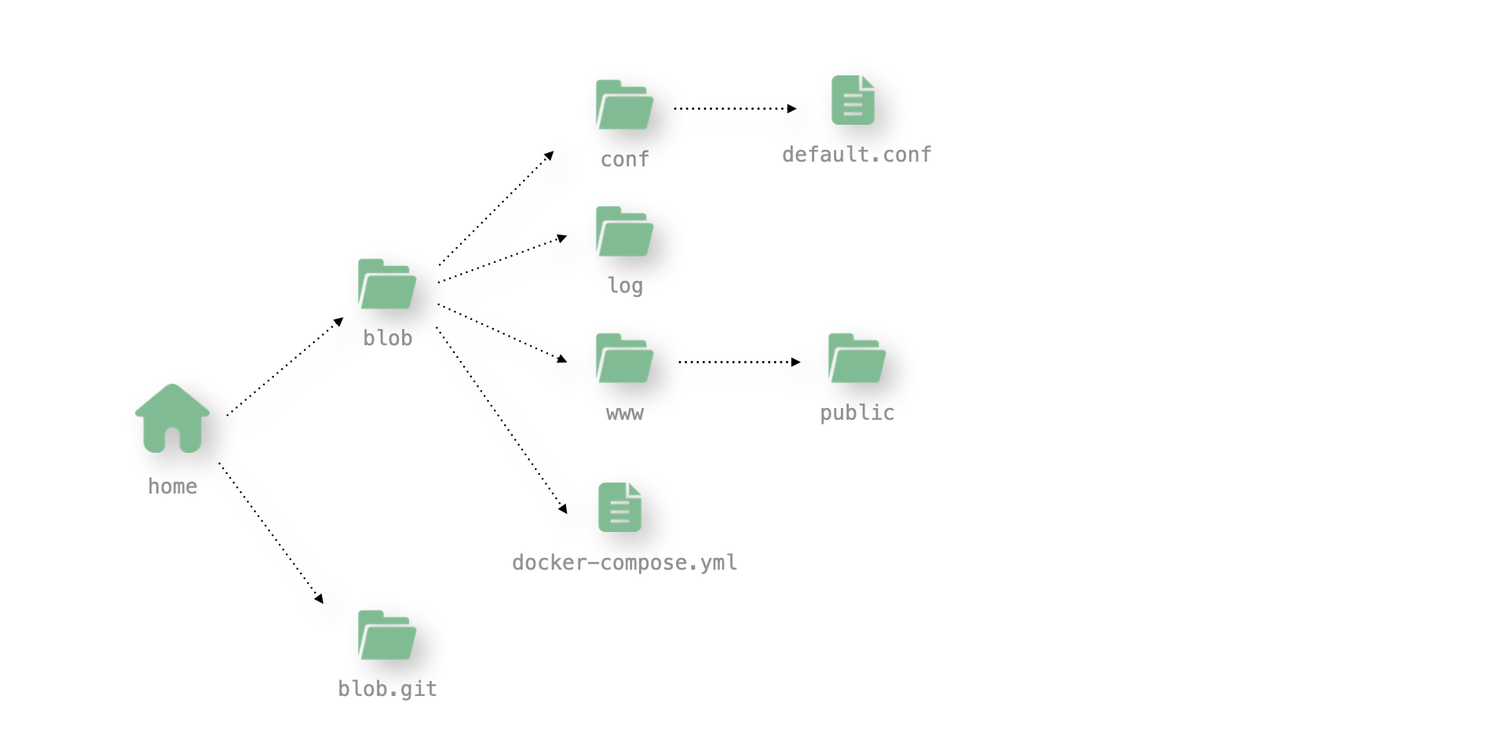
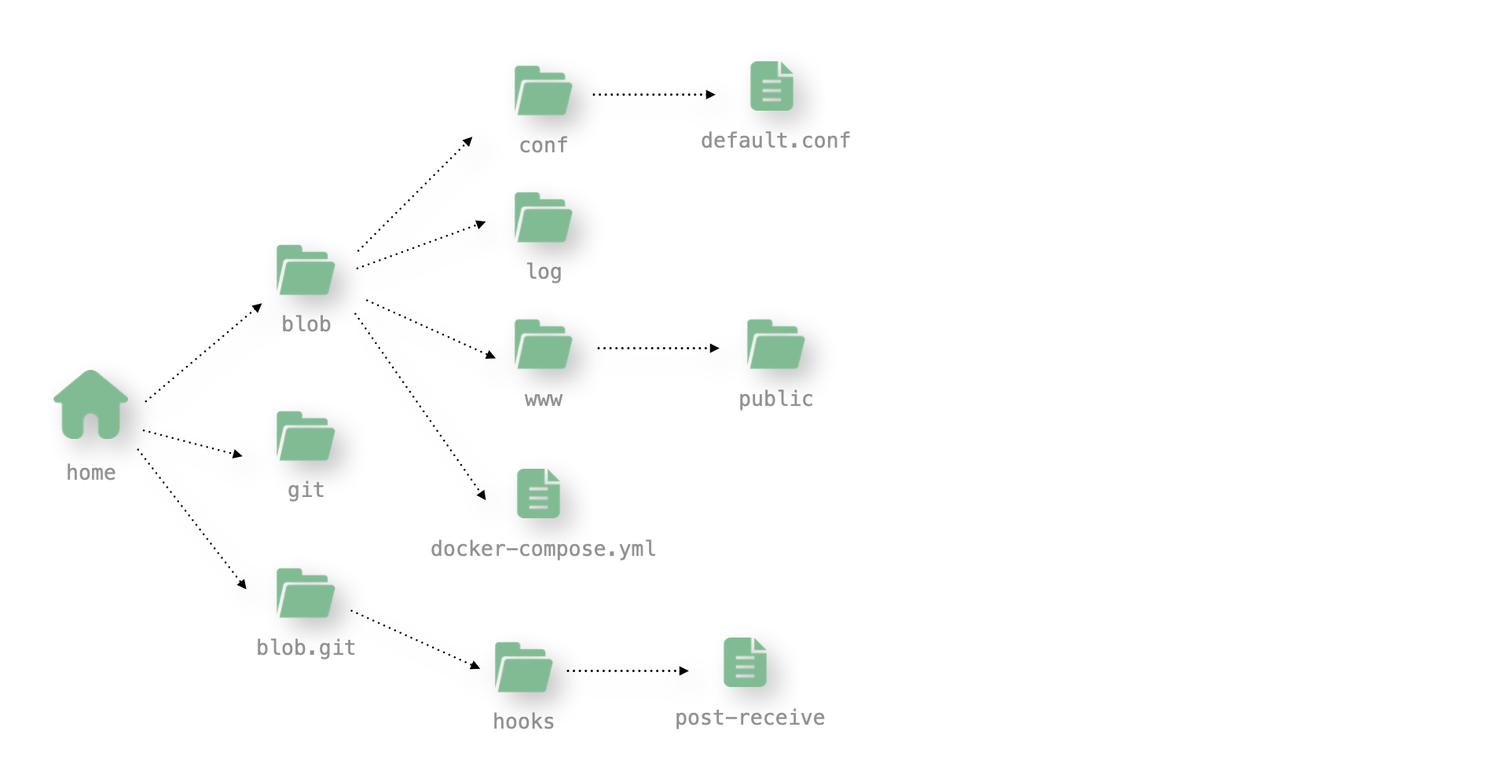
Site updated: 2020-08-12 11:42:56

diff --git a/2020/08/04/博客迁移之旅/index.html b/2020/08/04/博客迁移之旅/index.html
@@ -60,7 +60,7 @@
         <div class="stuff">
             <span>八月 04, 2020</span>
             
-  <ul class="post-tags-list"><li class="post-tags-list-item"><a class="post-tags-list-link" href="/tags/Blob/">Blob</a></li><li class="post-tags-list-item"><a class="post-tags-list-link" href="/tags/笔记/">笔记</a></li></ul>
+  <ul class="post-tags-list"><li class="post-tags-list-item"><a class="post-tags-list-link" href="/tags/服务器/">服务器</a></li><li class="post-tags-list-item"><a class="post-tags-list-link" href="/tags/笔记/">笔记</a></li><li class="post-tags-list-item"><a class="post-tags-list-link" href="/tags/部署/">部署</a></li></ul>
 
 
         </div>
@@ -68,46 +68,46 @@
             <h4 id="前言"><a href="#前言" class="headerlink" title="前言"></a>前言</h4><p>之前博客是直接托管到 <code>Github</code> 上的，由于它不是很稳定经常挂掉，而且访问速度也很慢，所以后面就干脆把它部署到自己的服务器上，顺便记录一下整个部署的流程，方便以后查看。</p>
 <h4 id="关于服务器"><a href="#关于服务器" class="headerlink" title="关于服务器"></a>关于服务器</h4><p>服务器我选的是腾讯云（主要是新用户有折扣，比较便宜，之前买过阿里云的，就不是新用户了 🤦♂），个人服务器，考虑到服务器主要是用作个人博客（静态页面），没啥并发量，对性能没有太高的要求，所以就选了一个最低配置。</p>
 <h5 id="服务器配置清单"><a href="#服务器配置清单" class="headerlink" title="服务器配置清单"></a><strong>服务器配置清单</strong></h5><img src="/2020/08/04/博客迁移之旅/server-config.jpg" title="服务器配置清单">
-<h4 id="流程"><a href="#流程" class="headerlink" title="流程"></a>流程</h4><p>整个博客的发布流程分为服务端与客户端（本地）两个部分，后面的步骤会具体描述，这里先说明一下整体的流程。</p>
+<h4 id="流程"><a href="#流程" class="headerlink" title="流程"></a>流程</h4><p>博客的整个部署流程分为服务端与客户端（本地）两个部分，具体的步骤会后面会描述，这里先说一下整体的流程。</p>
 <ol>
 <li>创建博客的远程仓库</li>
 <li>本地安装配置 hexo</li>
 <li>推送本地生成的静态页面到远程仓库</li>
 <li>服务端获取最新博客文件并部署上线<br><br></li>
 </ol>
-<p>这里可能会产生一个疑问：博客的远程仓库在哪创建？是 <code>Github</code> 还是在服务器上。为了解答这个疑问，下面先简单介绍下这两种方式：</p>
-<h5 id="远程仓库建在-Github-上"><a href="#远程仓库建在-Github-上" class="headerlink" title="远程仓库建在 Github 上"></a><strong>远程仓库建在 Github 上</strong></h5><p>当需要发布博客时，只要登录到服务器，通过 <code>git</code> 工具去仓库上拉取最新的文件，然后部署上线即可。如果需要集成自动部署功能（在本地执行完 <code>hexo deploy</code> 命令后，服务器能够自动去拉取最新静态页进行部署，不用再登录服务器手动操作），则需要使用到 <code>Github</code> 给我们提供的 <code>Webhooks</code> 勾子，来实现对仓库 <code>push</code> 事件的监听。</p>
-<h5 id="远程仓库建在服务器上"><a href="#远程仓库建在服务器上" class="headerlink" title="远程仓库建在服务器上"></a><strong>远程仓库建在服务器上</strong></h5><p>发布博客时，服务器可以直接拿到最新的静态页进行部署，如果在自动部署，可以使用 <code>git</code> 工具给我们提供的 <code>post-receive</code> 钩子，来实现对仓库 <code>push</code> 事件的监听。<br><br><br>比较一下上述的两种方式，我个人是推荐第二种，即：在服务器上创建博客的远程仓库，Why？</p>
+<p>这里可能会产生一个疑问：博客的远程仓库在哪创建？是 <code>Github</code> 还是在服务器上。为了解答这个疑问，我们先介绍下这两种方式：</p>
+<h5 id="远程仓库建在-Github-上"><a href="#远程仓库建在-Github-上" class="headerlink" title="远程仓库建在 Github 上"></a><strong>远程仓库建在 Github 上</strong></h5><p>发布博客时，只要登录到服务器，通过 <code>git</code> 工具去仓库上拉取最新的文件，然后部署上线即可。如果需要集成自动部署功能（在本地执行完 <code>hexo deploy</code> 命令后，服务器能够自动去拉取最新静态页进行部署，不用再登录服务器手动操作），则需要使用到 <code>Github</code> 给我们提供的 <code>Webhooks</code> 勾子，来实现对 <code>push</code> 事件的监听。</p>
+<h5 id="远程仓库建在服务器上"><a href="#远程仓库建在服务器上" class="headerlink" title="远程仓库建在服务器上"></a><strong>远程仓库建在服务器上</strong></h5><p>发布博客时，服务器可以直接拿到最新的静态页进行部署，如果想自动部署，则可以使用 <code>git</code> 工具给我们提供的 <code>post-receive</code> 钩子文件，来实现对 <code>push</code> 事件的监听。<br><br><br>比较一下上述的两种方式，我个人是推荐第二种，即：在服务器上创建博客的远程仓库，Why？</p>
 <p>在集成自动部署时，如果仓库建在 <code>Github</code> 上，则需要在 <code>Github</code> 中新增一个 <code>webhook</code> 钩子，并配置好回调地址，当仓库监测到 <code>push</code> 事件后，会调用这个回调地址，来通知服务器进行后续的操作。</p>
 <p>服务器端需要完成以下四件事：</p>
 <blockquote>
 <ol>
-<li>提供一个服务来给 <code>Github</code> 调用，也就是 <code>webhook</code> 上配置的的回调地址所对应的服务。</li>
+<li>提供一个服务来让 <code>Github</code> 调用，也就是 <code>webhook</code> 上配置的的回调地址所对应的服务。</li>
 <li>安装 <code>git</code> 工具，然后创建一个博客仓库与远程仓库进行关联，用来拉取远程仓库中的博客文件。</li>
 <li>当服务被调用时，需要使用 <code>git pull</code> 命令去拉取最新的博客文件。</li>
 <li>在获取到最新的博客文件后，通过 <code>nginx</code> 反向代理博客静态页（部署）。</li>
 </ol>
 </blockquote>
 <img src="/2020/08/04/博客迁移之旅/github-flow.jpg" title="流程图">
-<p> 这里涉及到服务器与 <code>Github</code> 的通信，而 <code>Github</code> 又不是很稳定，可能会有信息丢失的问题，导致博客不能被即时部署。<br> 如果是将远程仓库建在服务器上，当我们提交完最新的博客页后，服务器可以直接通过 <code>git</code> 工具的 <code>post-receive</code> 钩子文件，来监听本次的 <code>push</code> 事件，从而进行手续的操作。另外，由于这些操作都是在服务器内部完成的，不需要与外部进行通信，所以就不存在部署不及时的问题。</p>
+<p> 这里涉及到服务器与 <code>Github</code> 的通信，而 <code>Github</code> 又不是很稳定，可能存在信息丢失的风险，导致博客不能被即时部署。<br> 如果是将远程仓库建在服务器上，当我们提交完最新的博客页后，服务器就能拿到本地提交的文件，而且可以通过 <code>git</code> 工具的 <code>post-receive</code> 钩子文件，来监听本次的 <code>push</code> 事件，从而进行后续的操作。另外，由于这些操作都是在服务器内部完成的，不需要与外部进行通信，所以就不存在部署不及时的问题。</p>
 <h4 id="步骤"><a href="#步骤" class="headerlink" title="步骤"></a>步骤</h4><p>我采用的是第二种方式（在服务器搭建远程仓库），后续也是基于这种方式来进行介绍。</p>
 <img src="/2020/08/04/博客迁移之旅/server-flow.jpg" title="流程图">
 <p>具体拆解下来，分为服务器端与本地客户端两个部分的操作。</p>
 <h5 id="服务器"><a href="#服务器" class="headerlink" title="服务器"></a><strong>服务器</strong></h5><blockquote>
-<p>注：以下的操作都是在 <code>root</code> 权限下进行的。</p>
+<p>注：服务器上的操作都是在 <code>root</code> 权限下进行的。</p>
 </blockquote>
 <ol>
 <li>安装并配置 Docker</li>
 </ol>
-<p>博客是通过 <code>Docker</code> 容器来部署的，所以需要在服务器上下载安装 <code>Docker</code>。也可以不用 <code>Docker</code>，直接通过 <code>nginx</code> 来部署。这里主要是为了以后迁移方便（如果以后需要更换服务器，只需要将 <code>Docker</code> 脚本以及相关的配置文件打包走即可，不用再重新配置 <code>nginx</code> ），同时自己也想熟悉一下 <code>Docker</code> 的相关用法。<br><figure class="highlight bash"><table><tr><td class="gutter"><pre><span class="line">1</span><br><span class="line">2</span><br><span class="line">3</span><br><span class="line">4</span><br><span class="line">5</span><br><span class="line">6</span><br><span class="line">7</span><br><span class="line">8</span><br></pre></td><td class="code"><pre><span class="line"><span class="comment"># 安装 docker，因为我的服务器预装了 CentOS 系统，所以可以直接使用 yum 命令</span></span><br><span class="line">yum install docker -y</span><br><span class="line"></span><br><span class="line"><span class="comment"># 启动 docker</span></span><br><span class="line">service docker start</span><br><span class="line"></span><br><span class="line"><span class="comment"># 配置开机启动</span></span><br><span class="line">chkconfig docker on</span><br></pre></td></tr></table></figure></p>
-<p>国内访问 <code>Docker Hub</code> 较慢，可以使用腾讯云提供的国内镜像源，加速访问 <code>Docker Hub</code>。<br><figure class="highlight bash"><table><tr><td class="gutter"><pre><span class="line">1</span><br><span class="line">2</span><br><span class="line">3</span><br><span class="line">4</span><br><span class="line">5</span><br><span class="line">6</span><br><span class="line">7</span><br><span class="line">8</span><br><span class="line">9</span><br><span class="line">10</span><br><span class="line">11</span><br><span class="line">12</span><br><span class="line">13</span><br><span class="line">14</span><br><span class="line">15</span><br></pre></td><td class="code"><pre><span class="line"><span class="comment"># 1. 创建 docker 配置文件目录</span></span><br><span class="line">mkdir /etc/docker</span><br><span class="line"></span><br><span class="line"><span class="comment"># 2. 添加新的镜像源</span></span><br><span class="line">cat &gt;&gt; /etc/docker/daemon.json &lt;&lt;-<span class="string">'EOF'</span></span><br><span class="line">&#123;</span><br><span class="line">  <span class="string">"registry-mirrors"</span>: [<span class="string">"https://mirror.ccs.tencentyun.com"</span>]</span><br><span class="line">&#125;</span><br><span class="line">EOF</span><br><span class="line"></span><br><span class="line"><span class="comment"># 3. 加载配置文件</span></span><br><span class="line">systemctl daemon-reload</span><br><span class="line"></span><br><span class="line"><span class="comment"># 4. 重启 docker</span></span><br><span class="line">service docker restart</span><br></pre></td></tr></table></figure></p>
+<p>博客是通过 <code>Docker</code> 容器来部署的，所以需要在服务器上下载安装 <code>Docker</code>。也可以不用 <code>Docker</code>，直接使用 <code>nginx</code> 来部署。这里主要是为了以后迁移方便（如果以后需要更换服务器，只需要将 <code>Docker</code> 脚本以及相关的配置文件打包走即可，不用再重新配置 <code>nginx</code> ），同时自己也想熟悉一下 <code>Docker</code> 的相关用法。<br><figure class="highlight bash"><table><tr><td class="gutter"><pre><span class="line">1</span><br><span class="line">2</span><br><span class="line">3</span><br><span class="line">4</span><br><span class="line">5</span><br><span class="line">6</span><br><span class="line">7</span><br><span class="line">8</span><br></pre></td><td class="code"><pre><span class="line"><span class="comment"># 安装 docker，因为我的服务器预装了 CentOS 系统，所以可以直接使用 yum 命令</span></span><br><span class="line">yum install docker -y</span><br><span class="line"></span><br><span class="line"><span class="comment"># 启动 docker</span></span><br><span class="line">service docker start</span><br><span class="line"></span><br><span class="line"><span class="comment"># 配置开机启动</span></span><br><span class="line">chkconfig docker on</span><br></pre></td></tr></table></figure></p>
+<p>国内访问 <code>Docker Hub</code> 较慢，可以添加国内的镜像源来加速访问 <code>Docker Hub</code>，我这里使用的是腾讯云提供的镜像源。<br><figure class="highlight bash"><table><tr><td class="gutter"><pre><span class="line">1</span><br><span class="line">2</span><br><span class="line">3</span><br><span class="line">4</span><br><span class="line">5</span><br><span class="line">6</span><br><span class="line">7</span><br><span class="line">8</span><br><span class="line">9</span><br><span class="line">10</span><br><span class="line">11</span><br><span class="line">12</span><br><span class="line">13</span><br><span class="line">14</span><br><span class="line">15</span><br></pre></td><td class="code"><pre><span class="line"><span class="comment"># 1. 创建 docker 配置文件目录</span></span><br><span class="line">mkdir /etc/docker</span><br><span class="line"></span><br><span class="line"><span class="comment"># 2. 添加新的镜像源</span></span><br><span class="line">cat &gt;&gt; /etc/docker/daemon.json &lt;&lt;EOF</span><br><span class="line">&#123;</span><br><span class="line">  <span class="string">"registry-mirrors"</span>: [<span class="string">"https://mirror.ccs.tencentyun.com"</span>]</span><br><span class="line">&#125;</span><br><span class="line">EOF</span><br><span class="line"></span><br><span class="line"><span class="comment"># 3. 加载配置文件</span></span><br><span class="line">systemctl daemon-reload</span><br><span class="line"></span><br><span class="line"><span class="comment"># 4. 重启 docker</span></span><br><span class="line">service docker restart</span><br></pre></td></tr></table></figure></p>
 <p>配置好 <code>Docker</code> 的镜像源后，我们就可以通过 <code>Docker</code> 来拉取 <code>nginx</code> 镜像。<br><figure class="highlight bash"><table><tr><td class="gutter"><pre><span class="line">1</span><br><span class="line">2</span><br></pre></td><td class="code"><pre><span class="line"><span class="comment"># 拉取 nginx 镜像</span></span><br><span class="line">docker pull nginx</span><br></pre></td></tr></table></figure></p>
 <p>安装 <code>docker-compose</code> 。</p>
 <blockquote>
 <p>注：<code>docker-compose</code> 在这里不是必需的，它是用来解决多个容器编排的一种方案。因为这里只用到了 <code>nginx</code> 镜像，完全可以用一个 <code>Dockerfile</code> 文件来进行定制。</p>
 </blockquote>
 <figure class="highlight bash"><table><tr><td class="gutter"><pre><span class="line">1</span><br><span class="line">2</span><br></pre></td><td class="code"><pre><span class="line"><span class="comment"># 下载安装 docker-compose</span></span><br><span class="line">yum install docker-compose -y</span><br></pre></td></tr></table></figure>
-<p>接下来需要修改一下 nginx` 相关的配置。<br><figure class="highlight bash"><table><tr><td class="gutter"><pre><span class="line">1</span><br><span class="line">2</span><br><span class="line">3</span><br><span class="line">4</span><br><span class="line">5</span><br><span class="line">6</span><br><span class="line">7</span><br><span class="line">8</span><br><span class="line">9</span><br><span class="line">10</span><br><span class="line">11</span><br><span class="line">12</span><br><span class="line">13</span><br><span class="line">14</span><br><span class="line">15</span><br><span class="line">16</span><br><span class="line">17</span><br><span class="line">18</span><br><span class="line">19</span><br><span class="line">20</span><br><span class="line">21</span><br><span class="line">22</span><br><span class="line">23</span><br><span class="line">24</span><br><span class="line">25</span><br><span class="line">26</span><br><span class="line">27</span><br><span class="line">28</span><br><span class="line">29</span><br><span class="line">30</span><br><span class="line">31</span><br><span class="line">32</span><br><span class="line">33</span><br><span class="line">34</span><br><span class="line">35</span><br><span class="line">36</span><br><span class="line">37</span><br><span class="line">38</span><br><span class="line">39</span><br><span class="line">40</span><br><span class="line">41</span><br><span class="line">42</span><br><span class="line">43</span><br><span class="line">44</span><br><span class="line">45</span><br><span class="line">46</span><br><span class="line">47</span><br><span class="line">48</span><br><span class="line">49</span><br><span class="line">50</span><br><span class="line">51</span><br><span class="line">52</span><br><span class="line">53</span><br><span class="line">54</span><br><span class="line">55</span><br><span class="line">56</span><br><span class="line">57</span><br></pre></td><td class="code"><pre><span class="line"><span class="comment"># 1. 在 /home 目录底下新建一个 blob 目录，并进入到该目录底下。</span></span><br><span class="line"><span class="comment">#    这个目录就是博客的部署目录，里面存放着博客的静态文件以及与 nginx 相关的配置文件。 </span></span><br><span class="line"><span class="built_in">cd</span> /home &amp;&amp; mkdir blob &amp;&amp; <span class="built_in">cd</span> blob</span><br><span class="line"></span><br><span class="line"><span class="comment"># 2. 创建 docker-compose.yml 文件</span></span><br><span class="line">vim docker-compose.yml</span><br><span class="line"></span><br><span class="line"><span class="comment"># 3. 在 docker-compose.yml 文件中输入以下内容</span></span><br><span class="line">version: <span class="string">'3'</span></span><br><span class="line">services:</span><br><span class="line">  nginx:</span><br><span class="line">    restart: <span class="string">'always'</span></span><br><span class="line">    image: <span class="string">'nginx'</span></span><br><span class="line">    ports:</span><br><span class="line">      - <span class="string">'80:80'</span></span><br><span class="line">      - <span class="string">'443:443'</span></span><br><span class="line">    volumes: </span><br><span class="line">      <span class="comment"># a. volumes 将物理主机目录挂载到容器中</span></span><br><span class="line">      <span class="comment"># b. 以 : 为分隔符，前半部分为服务器目录，后半部分是容器中的目录</span></span><br><span class="line">      <span class="comment"># c. 挂载建立的是双向关联，类似于软连接</span></span><br><span class="line">      <span class="comment"># d. 当修改了服务器中的文件，则容器中所关联的文件也会同步更新，无需重新构建</span></span><br><span class="line">      <span class="comment">#</span></span><br><span class="line">      <span class="comment"># /home/blob/www/public 为服务器目录，里面存放的是博客的静态文件</span></span><br><span class="line">      <span class="comment"># 将它挂载到容器内的 /usr/share/nginx/html 目录中，将来服务器中的博客文件更新后，容器内会同步更新  </span></span><br><span class="line">      - <span class="string">'/home/blob/www/public:/usr/share/nginx/html'</span></span><br><span class="line">      <span class="comment"># 挂载 nginx 的日志文件</span></span><br><span class="line">      - <span class="string">'/home/blob/log:/var/log/nginx'</span></span><br><span class="line">      <span class="comment"># 挂载 nginx 的配置文件</span></span><br><span class="line">      - <span class="string">'/home/blob/conf:/etc/nginx/conf.d'</span></span><br><span class="line"></span><br><span class="line"><span class="comment"># 4. 创建 nginx 相关的配置文件</span></span><br><span class="line"><span class="comment">#    在 conf 目录底下创建一个 default.conf 文件，此文件将来会被挂载到 nginx 容器中并作为它的配置文件</span></span><br><span class="line"><span class="built_in">cd</span> /home/blob/conf &amp;&amp; vim default.conf</span><br><span class="line"></span><br><span class="line"><span class="comment"># 5. 在 default.conf 文件中输入以下内容</span></span><br><span class="line">server &#123;</span><br><span class="line">  listen    80;</span><br><span class="line">  server_name localhost;</span><br><span class="line"></span><br><span class="line">  root    /usr/share/nginx/html;</span><br><span class="line">  location / &#123;</span><br><span class="line">    root  /usr/share/nginx/html;</span><br><span class="line">    index index.html index.htm;</span><br><span class="line">  &#125;</span><br><span class="line"></span><br><span class="line">  autoindex on;</span><br><span class="line">  autoindex_exact_size  on;</span><br><span class="line">  autoindex_localtime on;</span><br><span class="line"></span><br><span class="line">  error_page  500 502 503 504   /50x.html;</span><br><span class="line">  location = /50x.html &#123;</span><br><span class="line">    root  /usr/share/nginx/html;</span><br><span class="line">  &#125;</span><br><span class="line">&#125;</span><br><span class="line"></span><br><span class="line"><span class="comment"># 6. 启动容器</span></span><br><span class="line"><span class="built_in">cd</span> /home/blob &amp;&amp; docker-compose up -d</span><br></pre></td></tr></table></figure></p>
+<p>接下来需要修改一下 <code>nginx</code> 相关的配置。<br><figure class="highlight bash"><table><tr><td class="gutter"><pre><span class="line">1</span><br><span class="line">2</span><br><span class="line">3</span><br><span class="line">4</span><br><span class="line">5</span><br><span class="line">6</span><br><span class="line">7</span><br><span class="line">8</span><br><span class="line">9</span><br><span class="line">10</span><br><span class="line">11</span><br><span class="line">12</span><br><span class="line">13</span><br><span class="line">14</span><br><span class="line">15</span><br><span class="line">16</span><br><span class="line">17</span><br><span class="line">18</span><br><span class="line">19</span><br><span class="line">20</span><br><span class="line">21</span><br><span class="line">22</span><br><span class="line">23</span><br><span class="line">24</span><br><span class="line">25</span><br><span class="line">26</span><br><span class="line">27</span><br><span class="line">28</span><br><span class="line">29</span><br><span class="line">30</span><br><span class="line">31</span><br><span class="line">32</span><br><span class="line">33</span><br><span class="line">34</span><br><span class="line">35</span><br><span class="line">36</span><br><span class="line">37</span><br><span class="line">38</span><br><span class="line">39</span><br><span class="line">40</span><br><span class="line">41</span><br><span class="line">42</span><br><span class="line">43</span><br><span class="line">44</span><br><span class="line">45</span><br><span class="line">46</span><br><span class="line">47</span><br><span class="line">48</span><br><span class="line">49</span><br><span class="line">50</span><br><span class="line">51</span><br><span class="line">52</span><br><span class="line">53</span><br><span class="line">54</span><br><span class="line">55</span><br><span class="line">56</span><br><span class="line">57</span><br></pre></td><td class="code"><pre><span class="line"><span class="comment"># 1. 在 /home 目录底下新建一个 blob 目录，并进入到该目录底下。</span></span><br><span class="line"><span class="comment">#    这个目录就是博客的部署目录，里面存放着博客的静态文件以及与 nginx 相关的配置文件。 </span></span><br><span class="line"><span class="built_in">cd</span> /home &amp;&amp; mkdir blob &amp;&amp; <span class="built_in">cd</span> blob</span><br><span class="line"></span><br><span class="line"><span class="comment"># 2. 创建 docker-compose.yml 文件</span></span><br><span class="line">vim docker-compose.yml</span><br><span class="line"></span><br><span class="line"><span class="comment"># 3. 在 docker-compose.yml 文件中输入以下内容</span></span><br><span class="line">version: <span class="string">'3'</span></span><br><span class="line">services:</span><br><span class="line">  nginx:</span><br><span class="line">    restart: <span class="string">'always'</span></span><br><span class="line">    image: <span class="string">'nginx'</span></span><br><span class="line">    ports:</span><br><span class="line">      - <span class="string">'80:80'</span></span><br><span class="line">      - <span class="string">'443:443'</span></span><br><span class="line">    volumes: </span><br><span class="line">      <span class="comment"># a. volumes 将物理主机目录挂载到容器中</span></span><br><span class="line">      <span class="comment"># b. 以 : 为分隔符，前半部分为服务器目录，后半部分是容器中的目录</span></span><br><span class="line">      <span class="comment"># c. 挂载建立的是双向关联，类似于软连接</span></span><br><span class="line">      <span class="comment"># d. 当修改了服务器中的文件，则容器中所关联的文件也会同步更新，无需重新构建</span></span><br><span class="line">      <span class="comment">#</span></span><br><span class="line">      <span class="comment"># /home/blob/www/public 为服务器目录，里面存放的是博客的静态文件</span></span><br><span class="line">      <span class="comment"># 将它挂载到容器内的 /usr/share/nginx/html 目录中，将来服务器中的博客文件更新后，容器内会同步更新  </span></span><br><span class="line">      - <span class="string">'/home/blob/www/public:/usr/share/nginx/html'</span></span><br><span class="line">      <span class="comment"># 挂载 nginx 的日志文件</span></span><br><span class="line">      - <span class="string">'/home/blob/log:/var/log/nginx'</span></span><br><span class="line">      <span class="comment"># 挂载 nginx 的配置文件</span></span><br><span class="line">      - <span class="string">'/home/blob/conf:/etc/nginx/conf.d'</span></span><br><span class="line"></span><br><span class="line"><span class="comment"># 4. 创建 nginx 相关的配置文件</span></span><br><span class="line"><span class="comment">#    在 conf 目录底下创建一个 default.conf 文件，此文件将来会被挂载到 nginx 容器中并作为它的配置文件</span></span><br><span class="line"><span class="built_in">cd</span> /home/blob/conf &amp;&amp; vim default.conf</span><br><span class="line"></span><br><span class="line"><span class="comment"># 5. 在 default.conf 文件中输入以下内容</span></span><br><span class="line">server &#123;</span><br><span class="line">  listen    80;</span><br><span class="line">  server_name localhost;</span><br><span class="line"></span><br><span class="line">  root    /usr/share/nginx/html;</span><br><span class="line">  location / &#123;</span><br><span class="line">    root  /usr/share/nginx/html;</span><br><span class="line">    index index.html index.htm;</span><br><span class="line">  &#125;</span><br><span class="line"></span><br><span class="line">  autoindex on;</span><br><span class="line">  autoindex_exact_size  on;</span><br><span class="line">  autoindex_localtime on;</span><br><span class="line"></span><br><span class="line">  error_page  500 502 503 504   /50x.html;</span><br><span class="line">  location = /50x.html &#123;</span><br><span class="line">    root  /usr/share/nginx/html;</span><br><span class="line">  &#125;</span><br><span class="line">&#125;</span><br><span class="line"></span><br><span class="line"><span class="comment"># 6. 启动容器</span></span><br><span class="line"><span class="built_in">cd</span> /home/blob &amp;&amp; docker-compose up -d</span><br></pre></td></tr></table></figure></p>
 <p>至此，所有与 <code>nginx</code> 相关的步骤都已经完成，接下来就是 <code>git</code> 相关的配置了。</p>
 <ol start="2">
 <li>安装并配置 Git</li>
@@ -115,23 +115,50 @@
 <p>因为博客的远程仓库是在服务器上创建的，所以需要在服务器上安装 <code>git</code> 工具。<br><figure class="highlight bash"><table><tr><td class="gutter"><pre><span class="line">1</span><br><span class="line">2</span><br></pre></td><td class="code"><pre><span class="line"><span class="comment"># 下载安装 git </span></span><br><span class="line">yum install git -y</span><br></pre></td></tr></table></figure></p>
 <p>安装完 <code>git</code> 后，在 <code>/home</code> 目录底下创建一个 <code>blob.git</code> 的仓库，该仓库就是博客的远程仓库。</p>
 <blockquote>
-<p>注：博客的远程仓库以及上文中提到的博客的部署目录，并不一定要在 <code>/home</code> 目录下创建，可以根据自己的需要在服务器上选择一个已存在的目录。</p>
+<p>注：博客的远程仓库以及上文中提到的博客的部署目录，并不一定要在 <code>/home</code> 目录下创建，可以根据自己的需要在服务器上选择一个合适的目录即可。</p>
 </blockquote>
-<figure class="highlight bash"><table><tr><td class="gutter"><pre><span class="line">1</span><br><span class="line">2</span><br><span class="line">3</span><br><span class="line">4</span><br><span class="line">5</span><br></pre></td><td class="code"><pre><span class="line"><span class="comment"># 创建博客的远程仓库</span></span><br><span class="line"><span class="comment">#</span></span><br><span class="line"><span class="comment"># --bare：表示创建一个裸的仓库，没有工作区（没有 .git 目录）</span></span><br><span class="line"><span class="comment"># 远程仓库只负责接收本地推送过来的数据，不允许直接在该仓库底下进行 git 操作</span></span><br><span class="line"><span class="built_in">cd</span> /home &amp;&amp; git init --bare blog.git</span><br></pre></td></tr></table></figure>
+<figure class="highlight bash"><table><tr><td class="gutter"><pre><span class="line">1</span><br><span class="line">2</span><br><span class="line">3</span><br><span class="line">4</span><br><span class="line">5</span><br></pre></td><td class="code"><pre><span class="line"><span class="comment"># 创建博客的远程仓库</span></span><br><span class="line"><span class="comment">#</span></span><br><span class="line"><span class="comment"># --bare：表示创建一个裸的仓库，没有工作区（没有 .git 目录）</span></span><br><span class="line"><span class="comment"># 远程仓库是用作共享的版本库，只保存 git 提交的版本信息，本身不存储推送过来的源文件，也不允许直接在该仓库底下进行 git 操作  </span></span><br><span class="line"><span class="built_in">cd</span> /home &amp;&amp; git init --bare blog.git</span><br></pre></td></tr></table></figure>
 <p>创建 <code>post-receive</code> 钩子文件。</p>
 <blockquote>
-<p>注：<code>post-receive</code> 是 <code>git</code> 在收到 <code>push</code> 事件以后执行的一个脚本文件，通过它可以实现对 <code>push</code> 事件的监听，从而达到自动部署的功能。<br>参考：<strong><em><u><a href="https://git-scm.com/book/zh/v2/自定义-Git-Git-钩子" target="_blank" rel="noopener">自定义-Git-Git-钩子</a></u></em></strong></p>
+<p>注：<code>post-receive</code> 是 <code>git</code> 在收到 <code>push</code> 事件以后执行的一个脚本文件，通过它可以实现对 <code>push</code> 事件的监听，从而达到自动部署的目的。<br>参考：<strong><em><u><a href="https://git-scm.com/book/zh/v2/自定义-Git-Git-钩子" target="_blank" rel="noopener">自定义-Git-Git-钩子</a></u></em></strong></p>
 </blockquote>
-<figure class="highlight bash"><table><tr><td class="gutter"><pre><span class="line">1</span><br><span class="line">2</span><br><span class="line">3</span><br><span class="line">4</span><br><span class="line">5</span><br><span class="line">6</span><br><span class="line">7</span><br><span class="line">8</span><br><span class="line">9</span><br><span class="line">10</span><br><span class="line">11</span><br><span class="line">12</span><br></pre></td><td class="code"><pre><span class="line"><span class="comment"># 1. 进入到 blob.git 仓库中的 hooks 目录下，所有的钩子文件都在这个目录下</span></span><br><span class="line"><span class="built_in">cd</span> blog.git/hooks</span><br><span class="line"></span><br><span class="line"><span class="comment"># 2. 创建 post-receive 文件</span></span><br><span class="line">vim post-receive</span><br><span class="line"></span><br><span class="line"><span class="comment"># 3. 在 post-receive 文件中输入以下内容</span></span><br><span class="line"><span class="comment">#    该命令会将</span></span><br><span class="line"><span class="comment">#</span></span><br><span class="line"><span class="comment">#   --work-tree </span></span><br><span class="line"><span class="comment">#   --git-dir</span></span><br><span class="line">git --work-tree=/home/blob/www/public --git-dir=/home/blob.git checkout -f</span><br></pre></td></tr></table></figure>
-<p>AAA<br>BBB<br>CCC</p>
+<figure class="highlight bash"><table><tr><td class="gutter"><pre><span class="line">1</span><br><span class="line">2</span><br><span class="line">3</span><br><span class="line">4</span><br><span class="line">5</span><br><span class="line">6</span><br><span class="line">7</span><br><span class="line">8</span><br><span class="line">9</span><br><span class="line">10</span><br><span class="line">11</span><br><span class="line">12</span><br><span class="line">13</span><br><span class="line">14</span><br><span class="line">15</span><br><span class="line">16</span><br></pre></td><td class="code"><pre><span class="line"><span class="comment"># 1. 进入到 blob.git 仓库中的 hooks 目录中，所有的钩子文件都在这个目录下</span></span><br><span class="line"><span class="built_in">cd</span> blog.git/hooks</span><br><span class="line"></span><br><span class="line"><span class="comment"># 2. 创建 post-receive 文件</span></span><br><span class="line">vim post-receive</span><br><span class="line"></span><br><span class="line"><span class="comment"># 3. 在 post-receive 文件中输入以下内容</span></span><br><span class="line"><span class="comment">#    该命令会将本地 push 过来的博客文件移动到 --work-tree 所指定的目录中</span></span><br><span class="line"><span class="comment">#    由于前面我们已经将 /home/blob/www/public 目录挂载到 nginx 容器内，所以就不用再手动的部署了</span></span><br><span class="line"><span class="comment">#</span></span><br><span class="line"><span class="comment">#   --work-tree 指定工作目录，本地 push 过来的文件会被放入它所指定的目录中</span></span><br><span class="line"><span class="comment">#   --git-dir   指定 git 仓库的位置</span></span><br><span class="line">git --work-tree=/home/blob/www/public --git-dir=/home/blob.git checkout -f</span><br><span class="line"></span><br><span class="line"><span class="comment"># 4. 分配这个文件的可执行权限</span></span><br><span class="line">chmod +x post-receive</span><br></pre></td></tr></table></figure>
 <ol start="3">
+<li>创建一个新用户，用来维护 git 仓库</li>
+</ol>
+<p>前面所创建的 <code>git</code> 仓库，是在 <code>root</code> 权限下操作的。当外界访问仓库时（本地的 <code>push</code>），就需要拥有 <code>root</code> 权限，而直接使用 <code>root</code> 账号来操作并不是一个很好的选择，所以我们需要单独创建一个用户来维护 <code>git</code> 仓库，以保证服务器的安全。</p>
+<figure class="highlight bash"><table><tr><td class="gutter"><pre><span class="line">1</span><br><span class="line">2</span><br><span class="line">3</span><br><span class="line">4</span><br><span class="line">5</span><br></pre></td><td class="code"><pre><span class="line"><span class="comment"># 添加 git 用户（这里的 git 是用户名，可以随意命名）</span></span><br><span class="line">adduser git</span><br><span class="line"></span><br><span class="line"><span class="comment"># 设置 git 用户的密码</span></span><br><span class="line">passwd git</span><br></pre></td></tr></table></figure>
+<p>执行完上述命令后，会在 <code>/home</code> 目录底下生成一个 <code>git</code> 的目录，该目录就是 <code>git</code> 用户的家目录。<br>接下来是给 <code>git</code> 用户分配相应的操作权限，这里只需给它分配 <code>git</code> 仓库的使用权限即可。</p>
+<figure class="highlight bash"><table><tr><td class="gutter"><pre><span class="line">1</span><br><span class="line">2</span><br></pre></td><td class="code"><pre><span class="line"><span class="comment"># 设置 git 仓库的拥有者为 git 用户</span></span><br><span class="line">chown -R git:git /home/blog.git</span><br></pre></td></tr></table></figure>
+<blockquote>
+<p>注：这里没有禁用掉 <code>git</code> 账户的 <code>shell</code> 登录权限，因此本地可以通过 <code>shell</code> 来登录服务器上的 <code>git</code> 账户。这样做的目的是为了方便后续添加 <code>ssh</code> 密钥，从而实现服务器的免密登录。如果直接禁掉了 <code>git</code> 账户的登录权限，后面在服务器上添加 <code>ssh</code> 密钥时会比较麻烦。 </p>
+</blockquote>
+<p>至此，服务器上的所有操作都已经完成，剩下的就是本地客户端的操作了。</p>
+<ol start="4">
 <li>服务器目录结构图<img src="/2020/08/04/博客迁移之旅/server-structure.jpg" title="服务器目录结构图">
 </li>
 </ol>
 <h5 id="本地"><a href="#本地" class="headerlink" title="本地"></a><strong>本地</strong></h5><ol>
 <li>配置 ssh 密钥，实现服务器的免密登录</li>
+</ol>
+<p><code>ssh</code> 可以基于密码进行认证，也可以基于密钥去认证用户，基于密钥认证时可以实现免密码登录服务器。</p>
+<figure class="highlight bash"><table><tr><td class="gutter"><pre><span class="line">1</span><br><span class="line">2</span><br></pre></td><td class="code"><pre><span class="line"><span class="comment"># 生成密钥对</span></span><br><span class="line">ssh-keygen</span><br></pre></td></tr></table></figure>
+<blockquote>
+<p>注：直接执行 <code>ssh-keygen</code> 命令，会进入交互模式，并等待用户输入生成密钥文件的路径，在不输入任何路径的情况下，私钥与公钥默认生成在当前用户家目录下的 <code>.ssh</code> 目录中，如果不指定其他路径，直接回车即可。随后，会提示我们输入密码，如果设置了密码，则每次在使用的时候，都会提示我们输入密码，因为我们想实现的就是免密码登录，所以这里直接回车，不设置密码，最后再次回车即可。</p>
+</blockquote>
+<p>当生成完密钥对后，就可以在当前用户的家目录（<code>~/.ssh</code>）中找到这队密钥文件（<code>id_rsa</code> 、<code>id_rsa.pub</code>），现在只需将公钥（<code>id_rsa.pub</code>）上传到服务器上的 <code>git</code> 账户中，就可以免密登录服务器上的 <code>git</code> 账户了，本地 <code>push</code> 文件到服务器上的远程仓库时就不用再输密码。<br><figure class="highlight bash"><table><tr><td class="gutter"><pre><span class="line">1</span><br><span class="line">2</span><br></pre></td><td class="code"><pre><span class="line"><span class="comment"># 上传公钥到服务器（请将 IP 替换成你服务器的公网IP（主机名））</span></span><br><span class="line">ssh-copy-id -i ~/.ssh/id_rsa.pub git@IP</span><br></pre></td></tr></table></figure></p>
+<blockquote>
+<p>注：传输公钥时，会要求我们输入 <code>git</code> 账户的密码，这种密码验证只需要进行一次即可。</p>
+</blockquote>
+<ol start="2">
 <li>安装并配置 hexo</li>
 </ol>
+<blockquote>
+<p>注：关于 <code>hexo</code> 的安装和使用请参考 <strong><em><u><a href="https://hexo.io/zh-cn/docs/" target="_blank" rel="noopener">文档 | Hexo</a></u></em></strong> ，这里我们只讨论 <code>_config.yml</code> 文件的配置。</p>
+</blockquote>
+<p>当执行 <code>hexo deploy</code> 命令时，<code>hexo</code> 会将生成的 <code>public</code> 目录中的文件和目录推送至 <code>_config.yml</code> 中指定的远端仓库和分支中，并且完全覆盖该分支下的已有内容。所以，只需要将 <code>_config.yml</code> 文件中的 <code>deploy</code> 参数进行修改，就可以将本地生成的静态文件推送到服务器上的 <code>git</code> 仓库中。</p>
+<figure class="highlight bash"><table><tr><td class="gutter"><pre><span class="line">1</span><br><span class="line">2</span><br><span class="line">3</span><br><span class="line">4</span><br><span class="line">5</span><br><span class="line">6</span><br><span class="line">7</span><br><span class="line">8</span><br><span class="line">9</span><br><span class="line">10</span><br><span class="line">11</span><br><span class="line">12</span><br></pre></td><td class="code"><pre><span class="line"><span class="comment"># 1. 进入到本地博客根目录中，编辑 _config.yml 文件</span></span><br><span class="line"><span class="comment">#</span></span><br><span class="line"><span class="comment"># 注：请将 xxx 替换成你本地博客的根目录</span></span><br><span class="line"><span class="built_in">cd</span> xxx &amp;&amp; vim _config.yml </span><br><span class="line"></span><br><span class="line"><span class="comment"># 2. 配置 _config.yml 文件中的 deploy 参数</span></span><br><span class="line"><span class="comment">#</span></span><br><span class="line"><span class="comment"># repo 博客远程仓库地址</span></span><br><span class="line"><span class="comment"># 注：请将 IP 替换成你服务器的公网IP（主机名）</span></span><br><span class="line">deploy:</span><br><span class="line">  - <span class="built_in">type</span>: git</span><br><span class="line">    repo: root@IP:/home/blob.git</span><br></pre></td></tr></table></figure>
+<p>至此，所有的迁移工作全部完成。</p>
 
             <!--[if lt IE 9]><script>document.createElement('audio');</script><![endif]-->
             <audio id="audio" loop="1" preload="auto" controls="controls" data-autoplay="true">

diff --git a/tags/服务器/index.html b/tags/服务器/index.html
@@ -5,7 +5,7 @@
     <meta charset="UTF-8" />
     <meta http-equiv="X-UA-Compatible" content="IE=edge,chrome=1" />
     <meta name="viewport" content="width=device-width, minimum-scale=1.0, maximum-scale=1.0, user-scalable=no">
-    <title>小小聪明屋 - 开心每一天</title>
+    <title>标签: 服务器 - 小小聪明屋</title>
     <meta name="apple-mobile-web-app-capable" content="yes" />
     <meta name="apple-mobile-web-app-status-bar-style" content="black-translucent">
     <meta name="google" content="notranslate" />
@@ -32,30 +32,107 @@
 <body class="loading">
     <span id="config-title" style="display:none">小小聪明屋</span>
     <div id="loader"></div>
-    <div id="single" class="page">
-    <div id="top">
-        <a class="icon-left image-icon" href="javascript:history.back()"></a>
-        <p class="subtitle" style="display: inline-block;">
-          
-            标签
-          
-        </p>
-    </div>
-    <div class="section">
-        <div class="article">
-            <div class="main">
-                <div class="content">
-                
-                    <div class="set">
-  <a href="/tags/Cocoapods/" style="font-size: 25px; color: #606060">Cocoapods</a> <a href="/tags/GIT/" style="font-size: 14px; color: #9e9e9e">GIT</a> <a href="/tags/JS/" style="font-size: 25px; color: #606060">JS</a> <a href="/tags/Mac/" style="font-size: 14px; color: #9e9e9e">Mac</a> <a href="/tags/SEGV-ACCERR/" style="font-size: 14px; color: #9e9e9e">SEGV_ACCERR</a> <a href="/tags/SIGSEGV/" style="font-size: 14px; color: #9e9e9e">SIGSEGV</a> <a href="/tags/VI/" style="font-size: 14px; color: #9e9e9e">VI</a> <a href="/tags/VIM/" style="font-size: 14px; color: #9e9e9e">VIM</a> <a href="/tags/Xcode10/" style="font-size: 14px; color: #9e9e9e">Xcode10</a> <a href="/tags/iOS/" style="font-size: 36px; color: #212121">iOS</a> <a href="/tags/iOS12/" style="font-size: 14px; color: #9e9e9e">iOS12</a> <a href="/tags/libstdc-6-0-9/" style="font-size: 14px; color: #9e9e9e">libstdc++.6.0.9</a> <a href="/tags/小程序/" style="font-size: 25px; color: #606060">小程序</a> <a href="/tags/工厂方法模式/" style="font-size: 14px; color: #9e9e9e">工厂方法模式</a> <a href="/tags/服务器/" style="font-size: 14px; color: #9e9e9e">服务器</a> <a href="/tags/登录/" style="font-size: 14px; color: #9e9e9e">登录</a> <a href="/tags/笔记/" style="font-size: 14px; color: #9e9e9e">笔记</a> <a href="/tags/简单工厂模式/" style="font-size: 14px; color: #9e9e9e">简单工厂模式</a> <a href="/tags/组件化/" style="font-size: 25px; color: #606060">组件化</a> <a href="/tags/设计模式/" style="font-size: 25px; color: #606060">设计模式</a> <a href="/tags/部署/" style="font-size: 14px; color: #9e9e9e">部署</a>
+    <div class="nav">
+    <ul id="menu-menu" class="menu">
+        
+        <li class="pview menu-item menu-item-type-post_type menu-item-object-page">
+            <a href="/#/" title="首页" target="_blank" rel="noopener">首页</a>
+        </li>
+        
+        <li class="pview menu-item menu-item-type-post_type menu-item-object-page">
+            <a href="/categories/" title="分类" target="_blank" rel="noopener">分类</a>
+        </li>
+        
+        <li class="pview menu-item menu-item-type-post_type menu-item-object-page">
+            <a href="/archives/" title="归档" target="_blank" rel="noopener">归档</a>
+        </li>
+        
+        <li class="pview menu-item menu-item-type-post_type menu-item-object-page">
+            <a href="/tags/" title="标签" target="_blank" rel="noopener">标签</a>
+        </li>
+        
+        <li class="pview menu-item menu-item-type-post_type menu-item-object-page">
+            <a href="/html/me/index.html" title="关于" target="_blank" rel="noopener">关于</a>
+        </li>
+        
+    </ul>
+    <p id="copyright">
+        &copy; 2020 fanxiaocong.
+        Powered by <a href="http://hexo.io/" title="Hexo" target="_blank" rel="noopener">Hexo</a>
+    </p>
 </div>
 
-                
-                </div>
+<div id="container">
+    
+<div id="screen">
+    <div id="mark">
+        <div class="layer" data-depth="0.4">
+          <img src="/img/welcome-cover.jpg" id="cover" crossorigin="anonymous" width="1920" height="1080">
+
+          <div class="box">
+            <div class="sun">
+              <div class="face">
+                <div class="pupil-left"></div>
+                <div class="pupil-right"></div>
+                <div class="smile"></div>
+              </div>
+              <div class="ray">
+                <div class="beam r1"></div>
+                <div class="beam r2"></div>
+                <div class="beam r3"></div>
+                <div class="beam r4"></div>
+                <div class="beam r5"></div>
+                <div class="beam r6"></div>
+                <div class="beam r7"></div>
+                <div class="beam r8"></div>
+                <div class="beam r9"></div>
+                <div class="beam r10"></div>
+              </div>
+            </div>
+            <div class="cloud">
+              <div class="cloud-left"></div>
+              <div class="cloud-right"></div>
+              <div class="cloud-bottom"></div>
+              <div class="eye-left"><div class="pupil"></div></div>
+              <div class="eye-right"><div class="pupil"></div></div>
+              <div class="mouth"></div>
+              <div class="tear-left"></div>
+              <div class="tear-right"></div>
+            </div>
+          </div>
+      </div>
+    </div>
+    <div id="vibrant">
+        <svg viewBox="0 0 2880 1620" height="100%" preserveAspectRatio="xMaxYMax slice">
+            <polygon opacity="0.7" points="2000,1620 0,1620 0,0 600,0 "/>
+        </svg>
+        <div></div>
+    </div>
+    <div id="header">
+        <div>
+            <a class="image-logo" href="/"></a>
+            <!-- <div class="icon-menu switchmenu"></div> -->
+            <div class="icon-menu burger switchmenu">
+              <div class="icon-ctl"></div>
             </div>
         </div>
     </div>
+    
+    <div id="post0">
+        <p>八月 04, 2020</p>
+        <h2><a href="/2020/08/04/博客迁移之旅/" title="博客迁移之旅" class="posttitle">博客迁移之旅</a></h2>
+        <p class="summary">前言之前博客是直接托管到 Github 上的，由于它不是很稳定经常挂掉，而且访问速度也很慢，所以后面就干脆把它部署...</p>
+    </div>
+    
 </div>
+
+    <div id="primary">
+        
+    </div>
+    
+</div>
+<div id="preview"></div>
+
 
 </body>
 <script src="//cdn.jsdelivr.net/npm/gitalk@1/dist/gitalk.min.js"></script>

diff --git a/tags/部署/index.html b/tags/部署/index.html
@@ -5,7 +5,7 @@
     <meta charset="UTF-8" />
     <meta http-equiv="X-UA-Compatible" content="IE=edge,chrome=1" />
     <meta name="viewport" content="width=device-width, minimum-scale=1.0, maximum-scale=1.0, user-scalable=no">
-    <title>标签: Blob - 小小聪明屋</title>
+    <title>标签: 部署 - 小小聪明屋</title>
     <meta name="apple-mobile-web-app-capable" content="yes" />
     <meta name="apple-mobile-web-app-status-bar-style" content="black-translucent">
     <meta name="google" content="notranslate" />
